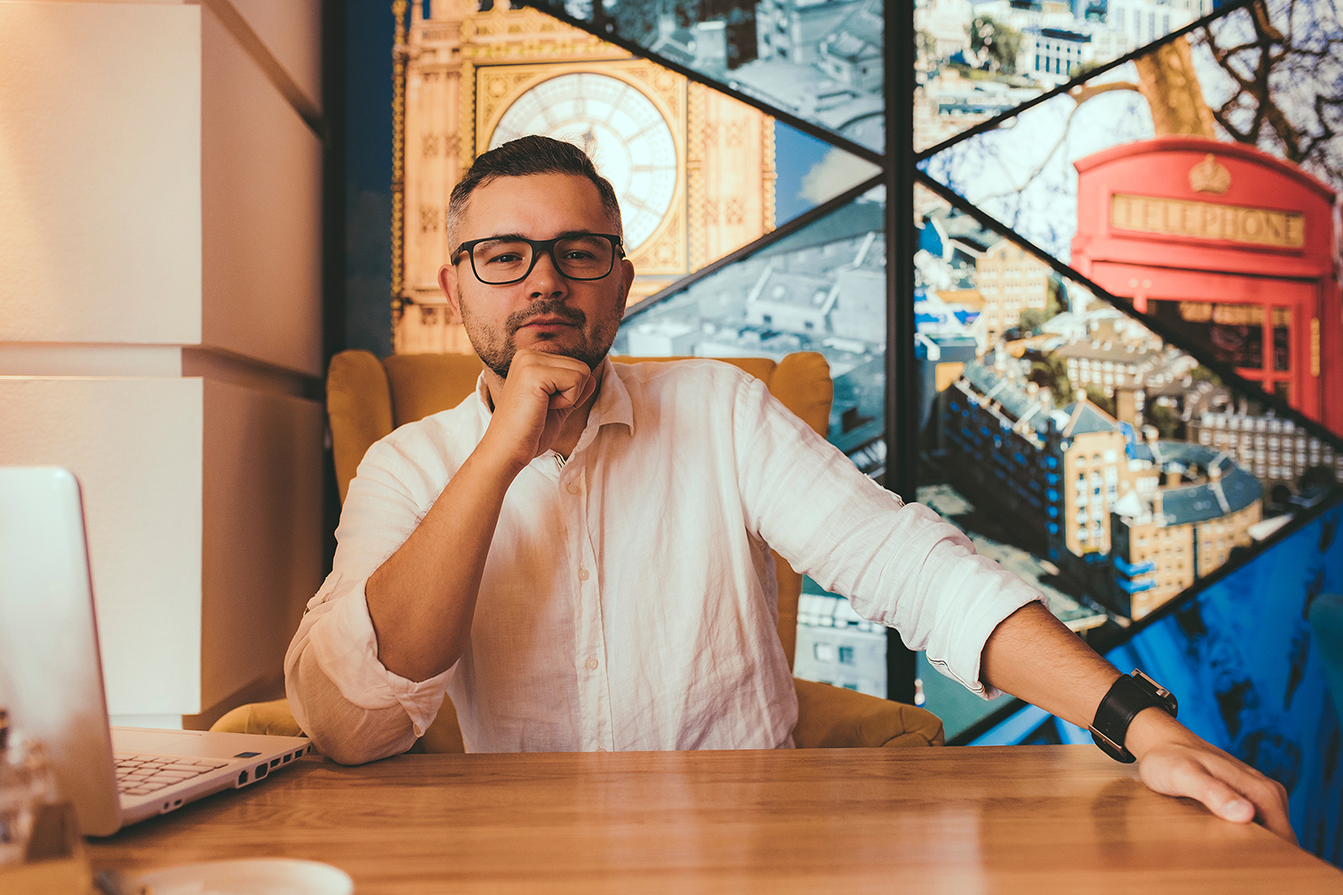
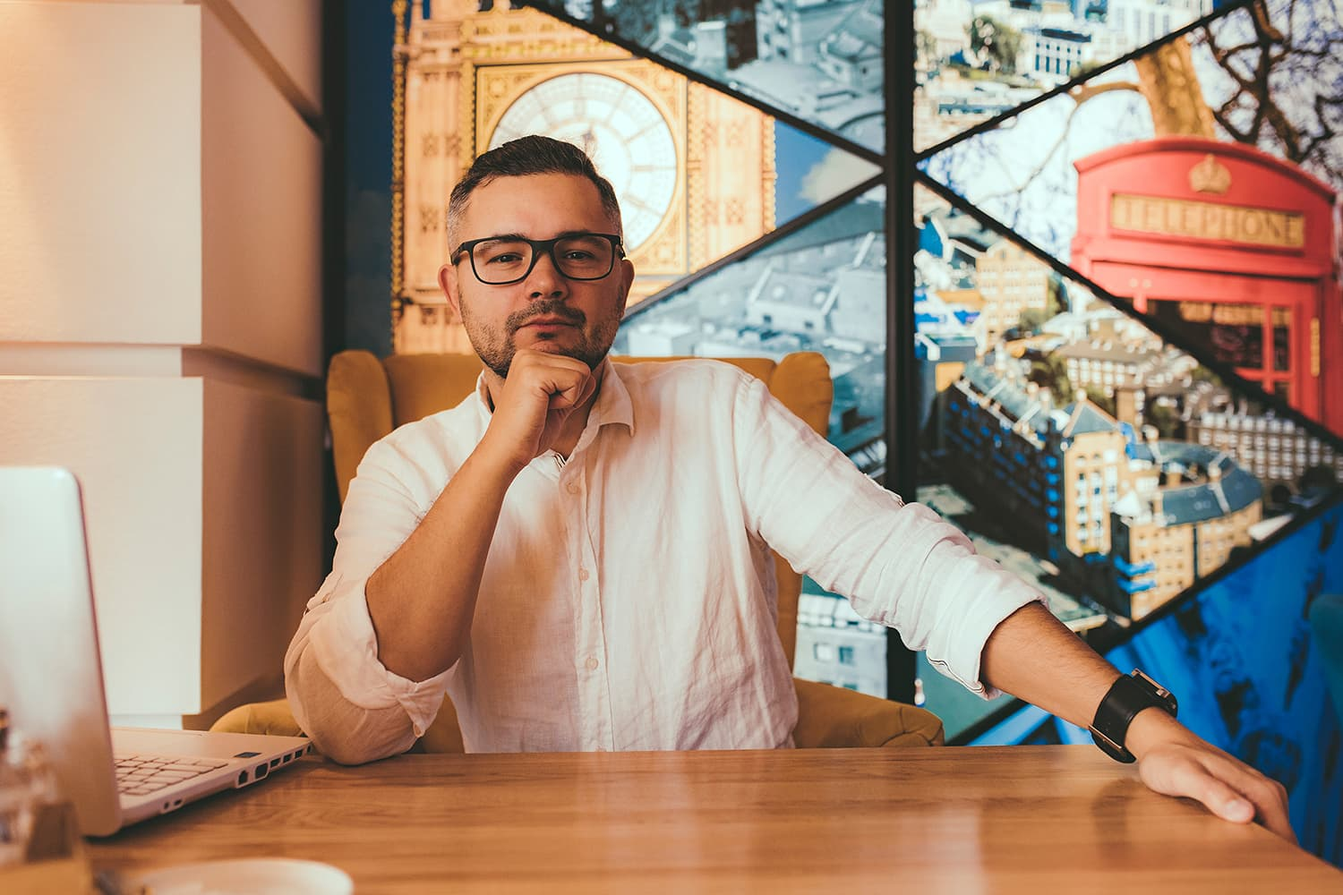
оптимищация графика + покраски

Changed region(s): [[0.828, 0.744, 0.8587, 0.775], [0.7973, 0.806, 0.828, 0.837]]

diff --git a/src/css/style.min.css b/src/css/style.min.css
@@ -1,1 +1,1 @@
-img{max-width:100%;height:auto}input{color-scheme:dark}::-webkit-scrollbar{width:12px;background-color:#2f2c28}::-webkit-scrollbar-thumb{border-radius:6px;background:-webkit-gradient(linear, left top, left bottom, from(transparent), to(#3a9fc9));background:linear-gradient(transparent, #3a9fc9)}::-webkit-scrollbar-thumb:hover{background:-webkit-gradient(linear, left top, left bottom, from(transparent), to(rgba(58, 159, 201, 0.6)));background:linear-gradient(transparent, rgba(58, 159, 201, 0.6))}@font-face{font-family:"Rubik";font-weight:300;font-style:normal;font-display:swap;src:url("../fonts/rubik-light.woff2") format("woff2"),url("../fonts/rubik-light.woff") format("woff")}@font-face{font-family:"Rubik";font-weight:500;font-style:normal;font-display:swap;src:url("../fonts/rubik-medium.woff2") format("woff2"),url("../fonts/rubik-medium.woff") format("woff")}@-webkit-keyframes loading{0%{-webkit-transform:translateX(0) translateY(0);transform:translateX(0) translateY(0);background-color:#3a9fc9;-webkit-box-shadow:0 0 10px #3a9fc9;box-shadow:0 0 10px #3a9fc9}25%{-webkit-transform:translateX(13px) rotate(90deg);transform:translateX(13px) rotate(90deg);background-color:#ff4040;-webkit-box-shadow:0 0 10px #ff4040;box-shadow:0 0 10px #ff4040}50%{-webkit-transform:translateX(13px) translateY(-13px) rotate(180deg);transform:translateX(13px) translateY(-13px) rotate(180deg);background-color:#2f2c28;-webkit-box-shadow:0 0 10px #2f2c28;box-shadow:0 0 10px #2f2c28}75%{-webkit-transform:translateX(0) translateY(-13px) rotate(270deg);transform:translateX(0) translateY(-13px) rotate(270deg);background-color:#ffce96;-webkit-box-shadow:0 0 10px #ffce96;box-shadow:0 0 10px #ffce96}100%{-webkit-transform:rotate(360deg);transform:rotate(360deg);background-color:#3a9fc9;-webkit-box-shadow:0 0 10px #3a9fc9;box-shadow:0 0 10px #3a9fc9}}@keyframes loading{0%{-webkit-transform:translateX(0) translateY(0);transform:translateX(0) translateY(0);background-color:#3a9fc9;-webkit-box-shadow:0 0 10px #3a9fc9;box-shadow:0 0 10px #3a9fc9}25%{-webkit-transform:translateX(13px) rotate(90deg);transform:translateX(13px) rotate(90deg);background-color:#ff4040;-webkit-box-shadow:0 0 10px #ff4040;box-shadow:0 0 10px #ff4040}50%{-webkit-transform:translateX(13px) translateY(-13px) rotate(180deg);transform:translateX(13px) translateY(-13px) rotate(180deg);background-color:#2f2c28;-webkit-box-shadow:0 0 10px #2f2c28;box-shadow:0 0 10px #2f2c28}75%{-webkit-transform:translateX(0) translateY(-13px) rotate(270deg);transform:translateX(0) translateY(-13px) rotate(270deg);background-color:#ffce96;-webkit-box-shadow:0 0 10px #ffce96;box-shadow:0 0 10px #ffce96}100%{-webkit-transform:rotate(360deg);transform:rotate(360deg);background-color:#3a9fc9;-webkit-box-shadow:0 0 10px #3a9fc9;box-shadow:0 0 10px #3a9fc9}}@-webkit-keyframes fly{0%{-webkit-transform:translateY(0);transform:translateY(0)}50%{-webkit-transform:translateY(10px);transform:translateY(10px)}100%{-webkit-transform:translateY(0);transform:translateY(0)}}@keyframes fly{0%{-webkit-transform:translateY(0);transform:translateY(0)}50%{-webkit-transform:translateY(10px);transform:translateY(10px)}100%{-webkit-transform:translateY(0);transform:translateY(0)}}@-webkit-keyframes fly-m{0%{-webkit-transform:translateY(0);transform:translateY(0)}50%{-webkit-transform:translateY(5px);transform:translateY(5px)}100%{-webkit-transform:translateY(0);transform:translateY(0)}}@keyframes fly-m{0%{-webkit-transform:translateY(0);transform:translateY(0)}50%{-webkit-transform:translateY(5px);transform:translateY(5px)}100%{-webkit-transform:translateY(0);transform:translateY(0)}}@-webkit-keyframes typing{0%{width:0}100%{width:100%}}@keyframes typing{0%{width:0}100%{width:100%}}@-webkit-keyframes blink{100%{border-right-color:rgba(0,0,0,0)}}@keyframes blink{100%{border-right-color:rgba(0,0,0,0)}}.main-header{font-size:30px;font-weight:bold}.page{font-family:"Rubik","Arial",sans-serif;height:100%;font-size:calc((1vw + 1vh)*.9);line-height:1.8}.page__body{background-color:#0c0500;color:#fff;min-width:320px;min-height:100%;height:3600px;margin:0 auto}.main-content{-webkit-transform-style:preserve-3d;transform-style:preserve-3d;height:100%}.container{width:100%;height:100%;position:fixed;-webkit-perspective:1500px;perspective:1500px}.gallery{-webkit-transform-style:preserve-3d;transform-style:preserve-3d;height:100%}.frame{width:100%;height:100%;position:absolute;display:-webkit-box;display:-ms-flexbox;display:flex;-webkit-box-pack:center;-ms-flex-pack:center;justify-content:center;-webkit-box-align:center;-ms-flex-align:center;align-items:center;-webkit-transition:.6s cubic-bezier(0.16, 1, 0.3, 1),opacity .7s ease;-o-transition:.6s cubic-bezier(0.16, 1, 0.3, 1),opacity .7s ease;transition:.6s cubic-bezier(0.16, 1, 0.3, 1),opacity .7s ease;will-change:transform;-webkit-transform-style:preserve-3d;transform-style:preserve-3d}.frame--bg::before{content:"";position:absolute;z-index:-1;width:170vw;height:170vh;background-color:rgba(12,5,0,.9)}.frame--bg-blur{-webkit-backdrop-filter:blur(4px);backdrop-filter:blur(4px)}.frame__title{font-weight:300;text-align:center;font-size:calc((1vw + 1vh)*2);line-height:1.1;letter-spacing:3px;margin-top:0;margin-bottom:0;border-right:2px solid rgba(255,255,255,.7);-webkit-animation:typing 4s steps(45) normal,blink .8s 10 forwards;animation:typing 4s steps(45) normal,blink .8s 10 forwards;white-space:nowrap;overflow:hidden}@media(max-width: 767px){.frame__title{letter-spacing:2px;font-size:calc((1vw + 1vh)*1.2)}}.frame__image{display:block;position:relative;background-color:#d38440;-o-object-fit:cover;object-fit:cover;width:calc((1vw + 1vh)*36);height:calc((1vw + 1vh)*26)}.frame__image--right{left:calc(18*(1vw + 1vh) + 30px)}@media(max-width: 767px){.frame__image--right{left:calc(15.652173913*(1vw + 1vh) + 30px)}}.frame__image--vertical{width:calc((1vw + 1vh)*26);height:calc((1vw + 1vh)*36);right:calc(13*(1vw + 1vh) + 30px)}@media(max-width: 767px){.frame__image--vertical{right:calc(11.3043478261*(1vw + 1vh) + 30px)}}.frame__content--text-right{position:relative;max-width:35%;left:19%}@media(max-width: 767px){.frame__content--text-right{max-width:40%;left:22%}}.frame__content--text-left{position:relative;max-width:35%;right:19%;text-align:right}@media(max-width: 767px){.frame__content--text-left{max-width:40%;right:22%}}.frame__subtitle{font-weight:500;text-transform:uppercase;font-size:calc((1vw + 1vh)*1.4);line-height:1.2;letter-spacing:1px;margin-top:0;margin-bottom:15px}@media(max-width: 767px){.frame__subtitle{margin-bottom:7px;font-size:1.2rem}}.frame__text{font-weight:300;line-height:1.3;margin-top:0;margin-bottom:0}.frame__list{padding-left:0;margin-top:0;margin-bottom:0;list-style:none}.frame__list-item{line-height:1.3;font-weight:300}.frame__title-type{position:relative}.visually-hidden{position:absolute;width:1px;height:1px;margin:-1px;border:0;padding:0;white-space:nowrap;-webkit-clip-path:inset(100%);clip-path:inset(100%);clip:rect(0 0 0 0);overflow:hidden}.form__container{opacity:0;position:absolute;background-color:#0c0500;background-image:url("../img/im-5.webp");background-repeat:no-repeat;background-position:center;background-size:cover;width:100%;height:0;top:45%;-webkit-transition:top 1s ease,height 1s ease,opacity 1.7s ease;-o-transition:top 1s ease,height 1s ease,opacity 1.7s ease;transition:top 1s ease,height 1s ease,opacity 1.7s ease;z-index:1}@media(-webkit-min-device-pixel-ratio: 2), (-o-min-device-pixel-ratio: 2/1), (min-resolution: 2dppx){.form__container{background-image:url("../img/im-5@2x.webp")}}.form__container--show{height:100%;opacity:1;top:0}.form__container--show .form__content{-webkit-transition:height 1s ease,opacity 1s ease;-o-transition:height 1s ease,opacity 1s ease;transition:height 1s ease,opacity 1s ease;height:100%;overflow:visible;opacity:1}.form__container::before{content:"";position:absolute;inset:0;z-index:-1;background-color:rgba(0,0,0,.7)}.form__content{position:absolute;left:50%;-webkit-transition:opacity 1s ease 0s,height 1s ease 0s;-o-transition:opacity 1s ease 0s,height 1s ease 0s;transition:opacity 1s ease 0s,height 1s ease 0s;opacity:0;height:0;overflow:hidden;padding-top:40px;max-width:600px}@media(min-width: 768px){.form__content{padding-right:10vw}}@media(max-width: 767px){.form__content{-webkit-transform:translateX(-50%);-ms-transform:translateX(-50%);transform:translateX(-50%);padding-right:10px;padding-left:10px;padding-top:20px}}.form__content .form__title{font-weight:500;font-size:calc((1vw + 1vh)*1.1);line-height:1.2;margin-top:0;margin-bottom:10px;letter-spacing:1px}.form__content .form__text{margin-top:0;margin-bottom:20px;line-height:1.2;font-weight:300}@media(max-width: 767px){.form__content .form__text{margin-bottom:15px}}.feedback{position:relative}.feedback::after{content:"";position:absolute;z-index:2;inset:0;background-color:rgba(12,5,0,.4);-webkit-box-shadow:0 0 10px #0c0500;box-shadow:0 0 10px #0c0500;display:none;-webkit-transition:opacity .5s ease,visibility .5s ease;-o-transition:opacity .5s ease,visibility .5s ease;transition:opacity .5s ease,visibility .5s ease}.feedback::before{content:"";z-index:3;position:absolute;left:45%;top:30%;width:10px;height:10px;background-color:#3a9fc9;border:2px solid #fff;-webkit-animation-name:loading;animation-name:loading;-webkit-animation-duration:2.5s;animation-duration:2.5s;-webkit-animation-iteration-count:infinite;animation-iteration-count:infinite;-webkit-animation-direction:normal;animation-direction:normal;-webkit-animation-timing-function:ease-in;animation-timing-function:ease-in;display:none}.feedback--sending::after,.feedback--sending::before{display:block}.feedback__list{padding:0;list-style:none;display:grid;gap:15px}@media(min-width: 768px){.feedback__list{display:grid;grid-template-columns:1fr 1fr}.feedback__list .feedback__item:nth-child(3),.feedback__list .feedback__item:nth-child(4){grid-column:span 2}}@media(max-height: 450px){.feedback__list{grid-template-columns:1fr 1fr;grid-template-rows:1fr 1fr 1fr;gap:10px}.feedback__list .feedback__item:nth-child(4){grid-row:1/-1;grid-column:2/-2}.feedback__list .feedback__item:nth-child(3){grid-column:span 1}}.feedback__btn{position:relative;background-color:rgba(0,0,0,0);border:2px solid #ffce96;padding:10px 20px;width:100%;max-width:180px;color:#ffce96;line-height:1.1;letter-spacing:.7px;text-transform:uppercase;display:block;margin-left:auto;cursor:pointer;outline:none;font-family:inherit;font-size:.7rem;font-weight:500;-webkit-transition:color .5s ease;-o-transition:color .5s ease;transition:color .5s ease}@media(max-width: 767px){.feedback__btn{padding:6px 10px}}.feedback__btn::before{content:"";position:absolute;background-color:#ffce96;z-index:-1;height:100%;width:0;left:50%;top:0;-webkit-transform:translate(-50%);-ms-transform:translate(-50%);transform:translate(-50%);-webkit-transition:width .6s ease;-o-transition:width .6s ease;transition:width .6s ease}.feedback__btn:hover::before{width:100%}.feedback__btn:hover{color:#0c0500}.feedback__btn:focus{text-decoration:underline}.field-item{position:relative}.field-item__input{width:100%;min-height:30px;font-family:inherit;font-size:1rem;font-weight:300;line-height:1.1;border:2px solid rgba(58,159,201,.3);-webkit-transition:all .5s ease 0s;-o-transition:all .5s ease 0s;transition:all .5s ease 0s;outline:none;background-color:rgba(0,0,0,0);-webkit-box-sizing:border-box;box-sizing:border-box;padding-left:5px;padding-top:7px;padding-bottom:3px;color:#3a9fc9}@media(max-width: 1200px){.field-item__input{min-height:15px;padding-left:3px}}.field-item__input--area{padding-top:9px;resize:none;min-height:120px}@media(max-width: 1200px){.field-item__input--area{min-height:60px}}@media(max-height: 450px){.field-item__input--area{height:100%}}.field-item__input:hover,.field-item__input:focus{border-color:#3a9fc9}.field-item__input:not(:-moz-placeholder-shown)~.field-item__name{font-size:calc((1vw + 1vh)*.4);transform:translate(12px, -9px);background-color:#3a9fc9;color:#0c0500;padding:3px 5px;font-weight:500}.field-item__input:not(:-ms-input-placeholder)~.field-item__name{font-size:calc((1vw + 1vh)*.4);-ms-transform:translate(12px, -9px);transform:translate(12px, -9px);background-color:#3a9fc9;color:#0c0500;padding:3px 5px;font-weight:500}.field-item__input:focus~.field-item__name,.field-item__input:not(:placeholder-shown)~.field-item__name{font-size:calc((1vw + 1vh)*.4);-webkit-transform:translate(12px, -9px);-ms-transform:translate(12px, -9px);transform:translate(12px, -9px);background-color:#3a9fc9;color:#0c0500;padding:3px 5px;font-weight:500}@media(max-width: 767px){.field-item__input:not(:-moz-placeholder-shown)~.field-item__name{transform:translate(8px, -5px)}.field-item__input:not(:-ms-input-placeholder)~.field-item__name{-ms-transform:translate(8px, -5px);transform:translate(8px, -5px)}.field-item__input:focus~.field-item__name,.field-item__input:not(:placeholder-shown)~.field-item__name{-webkit-transform:translate(8px, -5px);-ms-transform:translate(8px, -5px);transform:translate(8px, -5px)}}.field-item__input--error{border-color:#ff4040;-webkit-box-shadow:0 0 10px #ff4040;box-shadow:0 0 10px #ff4040}.field-item__name{font-size:calc((1vw + 1vh)*.7);text-transform:uppercase;color:rgba(58,159,201,.4);position:absolute;pointer-events:none;left:0;padding:8px;letter-spacing:.5px;font-weight:300;line-height:1;-webkit-transition:all .5s ease;-o-transition:all .5s ease;transition:all .5s ease}@media(max-width: 767px){.field-item__name{padding:5px}}.main-footer{position:fixed;bottom:0;width:100%;display:grid;grid-template-columns:1fr 1fr;justify-items:center;-webkit-box-sizing:border-box;box-sizing:border-box;padding:10px 30px 20px;-webkit-transition:opacity .6s ease,visibility .6s ease;-o-transition:opacity .6s ease,visibility .6s ease;transition:opacity .6s ease,visibility .6s ease}@media(max-width: 767px){.main-footer{padding:10px 20px 20px;row-gap:10px}}@media(min-width: 768px){.main-footer{grid-template-columns:repeat(4, 1fr)}}.main-footer--hidden{display:none}.main-footer__docs{text-align:center;position:relative}@media(min-width: 768px){.main-footer__docs{justify-self:start}}.main-footer__docs-title{margin-top:0;margin-bottom:8px;line-height:1;letter-spacing:.5px;font-size:.7rem}@media(max-width: 767px){.main-footer__docs-title{font-size:1.3rem}}.main-footer__copyright{-ms-flex-item-align:end;align-self:end}@media(max-width: 767px){.main-footer__copyright{grid-column:span 2;font-size:1rem}}@media(min-width: 768px){.main-footer__copyright{justify-self:end}}.main-footer__copyright-text{line-height:1;margin:0 0 0 0;font-weight:300;font-size:.7rem}.main-footer__copyright-text-symbol{color:#096cad}.works{text-align:center;display:-webkit-box;display:-ms-flexbox;display:flex;-webkit-box-orient:vertical;-webkit-box-direction:normal;-ms-flex-direction:column;flex-direction:column;font-size:.7rem}@media(max-width: 767px){.works{font-size:1.3rem}}.works__text{font-weight:500;line-height:1;margin-top:0;margin-bottom:8px;letter-spacing:.5px}.works__link{line-height:1;color:#3a9fc9;text-decoration:none;-webkit-transition:color .5s ease;-o-transition:color .5s ease;transition:color .5s ease;outline:none;font-weight:300;margin-bottom:3px}.works__link:hover,.works__link:focus{text-decoration:underline}.works__link:active{color:rgba(58,159,201,.5)}.docs{list-style:none;margin:0 0 0 0;padding:0 0 0 0}.docs__item{margin-bottom:10px}.docs__name{font-weight:300;line-height:1;display:block;color:#ffce96;cursor:pointer;outline:none;-webkit-transition:color .5s ease;-o-transition:color .5s ease;transition:color .5s ease;letter-spacing:.5px;font-size:.6rem}@media(max-width: 767px){.docs__name{font-size:1.3rem}}.docs__name:focus{text-decoration:underline}.docs__name:active{color:rgba(255,206,150,.5)}.docs__sertificate-one{-o-object-fit:contain;object-fit:contain}.docs__sertificate{position:absolute;opacity:0;visibility:hidden;height:auto;width:calc((1vw + 1vh)*15);display:block;left:0;top:0;-webkit-transform:translateY(-102%);-ms-transform:translateY(-102%);transform:translateY(-102%);-webkit-transition:opacity .5s ease,visibility .5s ease;-o-transition:opacity .5s ease,visibility .5s ease;transition:opacity .5s ease,visibility .5s ease}@media(max-width: 767px){.docs__sertificate{width:200px;left:-38vw}}.docs__name--one:hover~.docs__sertificate--one,.docs__name--two:hover~.docs__sertificate--two,.docs__name--one:focus~.docs__sertificate--one,.docs__name--two:focus~.docs__sertificate--two{opacity:1;visibility:visible}.socials{list-style:none;padding:0 0 0 0;margin:0 0 0 0;display:-webkit-box;display:-ms-flexbox;display:flex;-webkit-box-pack:center;-ms-flex-pack:center;justify-content:center;gap:10px}@media(max-width: 767px){.socials{grid-column:span 2}}@media(min-width: 768px){.socials{-ms-flex-item-align:end;align-self:end;justify-self:start}}.socials__link{display:-webkit-box;display:-ms-flexbox;display:flex;-webkit-box-pack:center;-ms-flex-pack:center;justify-content:center;-webkit-box-align:center;-ms-flex-align:center;align-items:center;text-decoration:none;background-color:rgba(255,255,255,.03);color:#3a9fc9;width:40px;height:40px;-webkit-box-shadow:2px 2px 2px 0 #000;box-shadow:2px 2px 2px 0 #000;text-align:center;border-radius:2px}.socials__link:focus{outline:none;-webkit-box-shadow:2px 2px 2px 0 #000,-1px -1px 0 0 rgba(255,255,255,.5);box-shadow:2px 2px 2px 0 #000,-1px -1px 0 0 rgba(255,255,255,.5)}.socials__link:active{color:#7d412f}.socials__link:hover use{-webkit-transform:scale(-1, 1);-ms-transform:scale(-1, 1);transform:scale(-1, 1)}.socials__img use{-webkit-transform-origin:center;-ms-transform-origin:center;transform-origin:center;-webkit-transition:all .4s ease;-o-transition:all .4s ease;transition:all .4s ease}.tools{position:absolute;padding:10px;left:50%;-webkit-transform:translate(-50%);-ms-transform:translate(-50%);transform:translate(-50%)}.tools__title{line-height:1.2;font-weight:300;font-size:calc((1vw + 1vh)*1.3);text-transform:uppercase;letter-spacing:.3px;text-align:center;margin-top:0;margin-bottom:40px}@media(min-width: 768px){.tools__title{margin-bottom:80px}}.tools__list{list-style:none;padding-left:0;margin:0 0 0 0;display:grid;-webkit-box-align:center;-ms-flex-align:center;align-items:center;justify-items:center;grid-template-areas:". ht . js . cs ." "gi . sa . no . gu" ". ph . fi . il .";row-gap:10px;-webkit-column-gap:3px;-moz-column-gap:3px;column-gap:3px}@media(min-width: 768px){.tools__list{gap:20px}}.tools__img{width:100%;-webkit-animation-name:fly;animation-name:fly;-webkit-animation-duration:4s;animation-duration:4s;-webkit-animation-iteration-count:infinite;animation-iteration-count:infinite;-webkit-animation-timing-function:cubic-bezier(0.68, -0.6, 0.32, 1.6);animation-timing-function:cubic-bezier(0.68, -0.6, 0.32, 1.6)}@media(max-width: 767px){.tools__img{height:40px;-webkit-animation-name:fly-m;animation-name:fly-m}}.tools__img--js{-webkit-animation-delay:1s;animation-delay:1s}.tools__img--cs{-webkit-animation-delay:2s;animation-delay:2s}.tools__img--git{-webkit-animation-delay:.7s;animation-delay:.7s}.tools__img--sass{-webkit-animation-delay:1.6s;animation-delay:1.6s}.tools__img--node{-webkit-animation-delay:.4s;animation-delay:.4s}.tools__img--gulp{-webkit-animation-delay:2.3s;animation-delay:2.3s}.tools__img--photo{-webkit-animation-delay:.9s;animation-delay:.9s}.tools__img--figma{-webkit-animation-delay:1.9s;animation-delay:1.9s}.tools__img--lustra{-webkit-animation-delay:1.3s;animation-delay:1.3s}.tools__item--ht{grid-area:ht}.tools__item--cs{grid-area:cs}.tools__item--js{grid-area:js}.tools__item--gi{grid-area:gi;width:140%}.tools__item--sa{grid-area:sa;width:120%}.tools__item--no{grid-area:no;width:150%}.tools__item--gu{grid-area:gu}.tools__item--ph{grid-area:ph}.tools__item--fi{grid-area:fi}.tools__item--il{grid-area:il}/*# sourceMappingURL=style.min.css.map */
+img{max-width:100%;height:auto}input{color-scheme:dark}::-webkit-scrollbar{width:12px;background-color:#2f2c28}::-webkit-scrollbar-thumb{border-radius:6px;background:-webkit-gradient(linear, left top, left bottom, from(transparent), to(#3a9fc9));background:linear-gradient(transparent, #3a9fc9)}::-webkit-scrollbar-thumb:hover{background:-webkit-gradient(linear, left top, left bottom, from(transparent), to(rgba(58, 159, 201, 0.6)));background:linear-gradient(transparent, rgba(58, 159, 201, 0.6))}@font-face{font-family:"Rubik";font-weight:300;font-style:normal;font-display:swap;src:url("../fonts/rubik-light.woff2") format("woff2"),url("../fonts/rubik-light.woff") format("woff")}@font-face{font-family:"Rubik";font-weight:500;font-style:normal;font-display:swap;src:url("../fonts/rubik-medium.woff2") format("woff2"),url("../fonts/rubik-medium.woff") format("woff")}@-webkit-keyframes loading{0%{-webkit-transform:translateX(0) translateY(0);transform:translateX(0) translateY(0);background-color:#3a9fc9;-webkit-box-shadow:0 0 10px #3a9fc9;box-shadow:0 0 10px #3a9fc9}25%{-webkit-transform:translateX(13px) rotate(90deg);transform:translateX(13px) rotate(90deg);background-color:#ff4040;-webkit-box-shadow:0 0 10px #ff4040;box-shadow:0 0 10px #ff4040}50%{-webkit-transform:translateX(13px) translateY(-13px) rotate(180deg);transform:translateX(13px) translateY(-13px) rotate(180deg);background-color:#2f2c28;-webkit-box-shadow:0 0 10px #2f2c28;box-shadow:0 0 10px #2f2c28}75%{-webkit-transform:translateX(0) translateY(-13px) rotate(270deg);transform:translateX(0) translateY(-13px) rotate(270deg);background-color:#ffce96;-webkit-box-shadow:0 0 10px #ffce96;box-shadow:0 0 10px #ffce96}100%{-webkit-transform:rotate(360deg);transform:rotate(360deg);background-color:#3a9fc9;-webkit-box-shadow:0 0 10px #3a9fc9;box-shadow:0 0 10px #3a9fc9}}@keyframes loading{0%{-webkit-transform:translateX(0) translateY(0);transform:translateX(0) translateY(0);background-color:#3a9fc9;-webkit-box-shadow:0 0 10px #3a9fc9;box-shadow:0 0 10px #3a9fc9}25%{-webkit-transform:translateX(13px) rotate(90deg);transform:translateX(13px) rotate(90deg);background-color:#ff4040;-webkit-box-shadow:0 0 10px #ff4040;box-shadow:0 0 10px #ff4040}50%{-webkit-transform:translateX(13px) translateY(-13px) rotate(180deg);transform:translateX(13px) translateY(-13px) rotate(180deg);background-color:#2f2c28;-webkit-box-shadow:0 0 10px #2f2c28;box-shadow:0 0 10px #2f2c28}75%{-webkit-transform:translateX(0) translateY(-13px) rotate(270deg);transform:translateX(0) translateY(-13px) rotate(270deg);background-color:#ffce96;-webkit-box-shadow:0 0 10px #ffce96;box-shadow:0 0 10px #ffce96}100%{-webkit-transform:rotate(360deg);transform:rotate(360deg);background-color:#3a9fc9;-webkit-box-shadow:0 0 10px #3a9fc9;box-shadow:0 0 10px #3a9fc9}}@-webkit-keyframes fly{0%{-webkit-transform:translateY(0);transform:translateY(0)}50%{-webkit-transform:translateY(10px);transform:translateY(10px)}100%{-webkit-transform:translateY(0);transform:translateY(0)}}@keyframes fly{0%{-webkit-transform:translateY(0);transform:translateY(0)}50%{-webkit-transform:translateY(10px);transform:translateY(10px)}100%{-webkit-transform:translateY(0);transform:translateY(0)}}@-webkit-keyframes fly-m{0%{-webkit-transform:translateY(0);transform:translateY(0)}50%{-webkit-transform:translateY(5px);transform:translateY(5px)}100%{-webkit-transform:translateY(0);transform:translateY(0)}}@keyframes fly-m{0%{-webkit-transform:translateY(0);transform:translateY(0)}50%{-webkit-transform:translateY(5px);transform:translateY(5px)}100%{-webkit-transform:translateY(0);transform:translateY(0)}}@-webkit-keyframes typing{0%{width:0}100%{width:100%}}@keyframes typing{0%{width:0}100%{width:100%}}@-webkit-keyframes blink{100%{border-right-color:rgba(0,0,0,0)}}@keyframes blink{100%{border-right-color:rgba(0,0,0,0)}}.main-header{font-size:30px;font-weight:bold}.page{font-family:"Rubik","Arial",sans-serif;height:100%;font-size:calc((1vw + 1vh)*.9);line-height:1.8}.page__body{background-color:#0c0500;color:#fff;min-width:320px;min-height:100%;height:3600px;margin:0 auto}.main-content{-webkit-transform-style:preserve-3d;transform-style:preserve-3d;height:100%}.container{width:100%;height:100%;position:fixed;-webkit-perspective:1500px;perspective:1500px}.gallery{-webkit-transform-style:preserve-3d;transform-style:preserve-3d;height:100%}.frame{width:100%;height:100%;position:absolute;display:-webkit-box;display:-ms-flexbox;display:flex;-webkit-box-pack:center;-ms-flex-pack:center;justify-content:center;-webkit-box-align:center;-ms-flex-align:center;align-items:center;-webkit-transition:.6s cubic-bezier(0.16, 1, 0.3, 1),opacity .7s ease;-o-transition:.6s cubic-bezier(0.16, 1, 0.3, 1),opacity .7s ease;transition:.6s cubic-bezier(0.16, 1, 0.3, 1),opacity .7s ease;will-change:transform;-webkit-transform-style:preserve-3d;transform-style:preserve-3d}.frame--bg::before{content:"";position:absolute;z-index:-1;width:170vw;height:170vh;background-color:rgba(12,5,0,.9)}.frame--bg-blur{-webkit-backdrop-filter:blur(4px);backdrop-filter:blur(4px)}.frame__title{font-weight:300;text-align:center;font-size:calc((1vw + 1vh)*2);line-height:1.1;letter-spacing:3px;margin-top:0;margin-bottom:0;border-right:2px solid rgba(255,255,255,.7);-webkit-animation:typing 4s steps(45) normal,blink .8s 10 forwards;animation:typing 4s steps(45) normal,blink .8s 10 forwards;white-space:nowrap;overflow:hidden}@media(max-width: 767px){.frame__title{letter-spacing:2px;font-size:calc((1vw + 1vh)*1.2)}}.frame__image{display:block;position:relative;background-color:#d38440;-o-object-fit:cover;object-fit:cover;width:calc((1vw + 1vh)*36);height:calc((1vw + 1vh)*26)}.frame__image--right{left:calc(18*(1vw + 1vh) + 30px)}@media(max-width: 767px){.frame__image--right{left:calc(15.652173913*(1vw + 1vh) + 30px)}}.frame__image--vertical{width:calc((1vw + 1vh)*26);height:calc((1vw + 1vh)*36);right:calc(13*(1vw + 1vh) + 30px)}@media(max-width: 767px){.frame__image--vertical{right:calc(11.3043478261*(1vw + 1vh) + 30px)}}.frame__content--text-right{position:relative;max-width:35%;left:19%}@media(max-width: 767px){.frame__content--text-right{max-width:40%;left:22%}}.frame__content--text-left{position:relative;max-width:35%;right:19%;text-align:right}@media(max-width: 767px){.frame__content--text-left{max-width:40%;right:22%}}.frame__subtitle{font-weight:500;text-transform:uppercase;font-size:calc((1vw + 1vh)*1.4);line-height:1.2;letter-spacing:1px;margin-top:0;margin-bottom:30px}@media(max-width: 767px){.frame__subtitle{margin-bottom:10px;font-size:1.2rem}}.frame__text{font-weight:300;line-height:1.3;margin-top:0;margin-bottom:0}.frame__list{padding-left:0;margin-top:0;margin-bottom:0;list-style:none}.frame__list-item{line-height:1.3;font-weight:300;margin-bottom:5px}.frame__title-type{position:relative}.frame__colored-text{color:#3a9fc9}.visually-hidden{position:absolute;width:1px;height:1px;margin:-1px;border:0;padding:0;white-space:nowrap;-webkit-clip-path:inset(100%);clip-path:inset(100%);clip:rect(0 0 0 0);overflow:hidden}.form__container{opacity:0;position:absolute;background-color:#0c0500;background-image:url("../img/im-5.jpg");background-repeat:no-repeat;background-position:center;background-size:cover;width:100%;height:0;top:45%;-webkit-transition:top 1s ease,height 1s ease,opacity 1.7s ease;-o-transition:top 1s ease,height 1s ease,opacity 1.7s ease;transition:top 1s ease,height 1s ease,opacity 1.7s ease;z-index:1}@media(-webkit-min-device-pixel-ratio: 2), (-o-min-device-pixel-ratio: 2/1), (min-resolution: 2dppx){.form__container{background-image:url("../img/im-5@2x.jpg")}}.form__container--show{height:100%;opacity:1;top:0}.form__container--show .form__content{-webkit-transition:height 1s ease,opacity 1s ease;-o-transition:height 1s ease,opacity 1s ease;transition:height 1s ease,opacity 1s ease;overflow:visible;opacity:1}.form__container::before{content:"";position:absolute;inset:0;z-index:-1;background-color:rgba(0,0,0,.7)}.form__content{position:absolute;left:50%;-webkit-transition:opacity 1s ease 0s,height 1s ease 0s;-o-transition:opacity 1s ease 0s,height 1s ease 0s;transition:opacity 1s ease 0s,height 1s ease 0s;opacity:0;height:0;overflow:hidden;padding-top:30px;max-width:600px}@media(min-width: 768px){.form__content{padding-right:10vw}}@media(max-width: 767px){.form__content{-webkit-transform:translateX(-50%);-ms-transform:translateX(-50%);transform:translateX(-50%);padding-right:10px;padding-left:10px;padding-top:20px}}.form__content .form__title{font-weight:500;font-size:calc((1vw + 1vh)*1.1);line-height:1.2;margin-top:0;margin-bottom:10px;letter-spacing:1px}.form__content .form__text{margin-top:0;margin-bottom:20px;line-height:1.2;font-weight:300;font-size:1rem}@media(max-width: 767px){.form__content .form__text{margin-bottom:15px}}.feedback{position:relative}.feedback::after{content:"";position:absolute;z-index:2;inset:0;background-color:rgba(12,5,0,.4);-webkit-box-shadow:0 0 10px #0c0500;box-shadow:0 0 10px #0c0500;display:none;-webkit-transition:opacity .5s ease,visibility .5s ease;-o-transition:opacity .5s ease,visibility .5s ease;transition:opacity .5s ease,visibility .5s ease}.feedback::before{content:"";z-index:3;position:absolute;left:45%;top:30%;width:10px;height:10px;background-color:#3a9fc9;border:2px solid #fff;-webkit-animation-name:loading;animation-name:loading;-webkit-animation-duration:2.5s;animation-duration:2.5s;-webkit-animation-iteration-count:infinite;animation-iteration-count:infinite;-webkit-animation-direction:normal;animation-direction:normal;-webkit-animation-timing-function:ease-in;animation-timing-function:ease-in;display:none}.feedback--sending::after,.feedback--sending::before{display:block}.feedback__list{padding:0;list-style:none;display:grid;gap:15px}@media(min-width: 768px){.feedback__list{display:grid;grid-template-columns:1fr 1fr}.feedback__list .feedback__item:nth-child(3),.feedback__list .feedback__item:nth-child(4){grid-column:span 2}}@media(max-height: 450px){.feedback__list{grid-template-columns:1fr 1fr;grid-template-rows:1fr 1fr 1fr;gap:10px}.feedback__list .feedback__item:nth-child(4){grid-row:1/-1;grid-column:2/-2}.feedback__list .feedback__item:nth-child(3){grid-column:span 1}}.feedback__btn{position:relative;background-color:rgba(0,0,0,0);border:2px solid #ffce96;padding:10px 20px;width:100%;max-width:180px;color:#ffce96;line-height:1.1;letter-spacing:.7px;text-transform:uppercase;display:block;margin-left:auto;cursor:pointer;outline:none;font-family:inherit;font-size:.7rem;font-weight:500;-webkit-transition:color .5s ease;-o-transition:color .5s ease;transition:color .5s ease}@media(max-width: 767px){.feedback__btn{padding:6px 10px}}.feedback__btn::before{content:"";position:absolute;background-color:#ffce96;z-index:-1;height:100%;width:0;left:50%;top:0;-webkit-transform:translate(-50%);-ms-transform:translate(-50%);transform:translate(-50%);-webkit-transition:width .6s ease;-o-transition:width .6s ease;transition:width .6s ease}.feedback__btn:hover::before{width:100%}.feedback__btn:hover{color:#0c0500}.feedback__btn:focus{text-decoration:underline}.field-item{position:relative}.field-item__input{width:100%;min-height:30px;font-family:inherit;font-size:1rem;font-weight:300;line-height:1.1;border:2px solid rgba(58,159,201,.3);-webkit-transition:all .5s ease 0s;-o-transition:all .5s ease 0s;transition:all .5s ease 0s;outline:none;background-color:rgba(0,0,0,0);-webkit-box-sizing:border-box;box-sizing:border-box;padding-left:5px;padding-top:7px;padding-bottom:3px;color:#3a9fc9}@media(max-width: 1200px){.field-item__input{min-height:15px;padding-left:3px}}.field-item__input--area{padding-top:9px;resize:none;min-height:120px}@media(max-width: 1200px){.field-item__input--area{min-height:60px}}@media(max-height: 450px){.field-item__input--area{height:100%}}.field-item__input:hover,.field-item__input:focus{border-color:#3a9fc9}.field-item__input:not(:-moz-placeholder-shown)~.field-item__name{font-size:calc((1vw + 1vh)*.4);transform:translate(12px, -9px);background-color:#3a9fc9;color:#0c0500;padding:3px 5px;font-weight:500}.field-item__input:not(:-ms-input-placeholder)~.field-item__name{font-size:calc((1vw + 1vh)*.4);-ms-transform:translate(12px, -9px);transform:translate(12px, -9px);background-color:#3a9fc9;color:#0c0500;padding:3px 5px;font-weight:500}.field-item__input:focus~.field-item__name,.field-item__input:not(:placeholder-shown)~.field-item__name{font-size:calc((1vw + 1vh)*.4);-webkit-transform:translate(12px, -9px);-ms-transform:translate(12px, -9px);transform:translate(12px, -9px);background-color:#3a9fc9;color:#0c0500;padding:3px 5px;font-weight:500}@media(max-width: 767px){.field-item__input:not(:-moz-placeholder-shown)~.field-item__name{transform:translate(8px, -5px)}.field-item__input:not(:-ms-input-placeholder)~.field-item__name{-ms-transform:translate(8px, -5px);transform:translate(8px, -5px)}.field-item__input:focus~.field-item__name,.field-item__input:not(:placeholder-shown)~.field-item__name{-webkit-transform:translate(8px, -5px);-ms-transform:translate(8px, -5px);transform:translate(8px, -5px)}}.field-item__input--error{border-color:#ff4040;-webkit-box-shadow:0 0 10px #ff4040;box-shadow:0 0 10px #ff4040}.field-item__name{font-size:calc((1vw + 1vh)*.7);text-transform:uppercase;color:rgba(58,159,201,.4);position:absolute;pointer-events:none;left:0;padding:8px;letter-spacing:.5px;font-weight:300;line-height:1;-webkit-transition:all .5s ease;-o-transition:all .5s ease;transition:all .5s ease}@media(max-width: 767px){.field-item__name{padding:5px}}.main-footer{position:fixed;bottom:0;width:100%;display:grid;grid-template-columns:1fr 1fr;justify-items:center;-webkit-box-sizing:border-box;box-sizing:border-box;padding:10px 30px 20px;-webkit-transition:opacity .6s ease,visibility .6s ease;-o-transition:opacity .6s ease,visibility .6s ease;transition:opacity .6s ease,visibility .6s ease}@media(max-width: 767px){.main-footer{padding:10px;row-gap:10px}}@media(min-width: 768px){.main-footer{grid-template-columns:repeat(4, 1fr)}}.main-footer--hidden{display:none}.main-footer__docs{text-align:center;position:relative}@media(min-width: 768px){.main-footer__docs{justify-self:start}}.main-footer__docs-title{margin-top:0;margin-bottom:8px;line-height:1;letter-spacing:.5px;font-size:.7rem}@media(max-width: 767px){.main-footer__docs-title{font-size:1.3rem}}.main-footer__copyright{-ms-flex-item-align:end;align-self:end}@media(max-width: 767px){.main-footer__copyright{grid-column:span 2;font-size:1rem}}@media(min-width: 768px){.main-footer__copyright{justify-self:end}}.main-footer__copyright-text{line-height:1;margin:0 0 0 0;font-weight:300;font-size:.7rem}.main-footer__copyright-text-symbol{color:#096cad}.works{text-align:center;display:-webkit-box;display:-ms-flexbox;display:flex;-webkit-box-orient:vertical;-webkit-box-direction:normal;-ms-flex-direction:column;flex-direction:column;font-size:.7rem}@media(max-width: 767px){.works{font-size:1.3rem}}.works__text{font-weight:500;line-height:1;margin-top:0;margin-bottom:8px;letter-spacing:.5px}.works__link{line-height:1;color:#3a9fc9;text-decoration:none;-webkit-transition:color .5s ease;-o-transition:color .5s ease;transition:color .5s ease;outline:none;font-weight:300;margin-bottom:3px}.works__link:hover,.works__link:focus{text-decoration:underline}.works__link:active{color:rgba(58,159,201,.5)}.docs{list-style:none;margin:0 0 0 0;padding:0 0 0 0}.docs__item{margin-bottom:10px}.docs__name{font-weight:300;line-height:1;display:block;color:#ffce96;cursor:pointer;outline:none;-webkit-transition:color .5s ease;-o-transition:color .5s ease;transition:color .5s ease;letter-spacing:.5px;font-size:.6rem}@media(max-width: 767px){.docs__name{font-size:1.3rem}}.docs__name:focus{text-decoration:underline}.docs__name:active{color:rgba(255,206,150,.5)}.docs__sertificate-one{-o-object-fit:contain;object-fit:contain}.docs__sertificate{position:absolute;opacity:0;visibility:hidden;height:auto;width:calc((1vw + 1vh)*15);display:block;left:0;top:0;-webkit-transform:translateY(-102%);-ms-transform:translateY(-102%);transform:translateY(-102%);-webkit-transition:opacity .5s ease,visibility .5s ease;-o-transition:opacity .5s ease,visibility .5s ease;transition:opacity .5s ease,visibility .5s ease}@media(max-width: 767px){.docs__sertificate{width:200px;left:-38vw}}.docs__name--one:hover~.docs__sertificate--one,.docs__name--two:hover~.docs__sertificate--two,.docs__name--one:focus~.docs__sertificate--one,.docs__name--two:focus~.docs__sertificate--two{opacity:1;visibility:visible}.socials{list-style:none;padding:0 0 0 0;margin:0 0 0 0;display:-webkit-box;display:-ms-flexbox;display:flex;-webkit-box-pack:center;-ms-flex-pack:center;justify-content:center;gap:10px}@media(max-width: 767px){.socials{grid-column:span 2}}@media(min-width: 768px){.socials{-ms-flex-item-align:end;align-self:end;justify-self:start}}.socials__link{display:-webkit-box;display:-ms-flexbox;display:flex;-webkit-box-pack:center;-ms-flex-pack:center;justify-content:center;-webkit-box-align:center;-ms-flex-align:center;align-items:center;text-decoration:none;background-color:rgba(255,255,255,.03);color:#3a9fc9;width:40px;height:40px;-webkit-box-shadow:2px 2px 2px 0 #000;box-shadow:2px 2px 2px 0 #000;text-align:center;border-radius:2px}.socials__link:focus{outline:none;-webkit-box-shadow:2px 2px 2px 0 #000,-1px -1px 0 0 rgba(255,255,255,.5);box-shadow:2px 2px 2px 0 #000,-1px -1px 0 0 rgba(255,255,255,.5)}.socials__link:active{color:#7d412f}.socials__link:hover use{-webkit-transform:scale(-1, 1);-ms-transform:scale(-1, 1);transform:scale(-1, 1)}.socials__img use{-webkit-transform-origin:center;-ms-transform-origin:center;transform-origin:center;-webkit-transition:all .4s ease;-o-transition:all .4s ease;transition:all .4s ease}.tools{position:absolute;padding:10px;left:50%;-webkit-transform:translate(-50%);-ms-transform:translate(-50%);transform:translate(-50%)}.tools__title{line-height:1.2;font-weight:300;font-size:calc((1vw + 1vh)*1.3);text-transform:uppercase;letter-spacing:.3px;text-align:center;margin-top:0;margin-bottom:40px}@media(min-width: 768px){.tools__title{margin-bottom:80px}}.tools__list{list-style:none;padding-left:0;margin:0 0 0 0;display:grid;-webkit-box-align:center;-ms-flex-align:center;align-items:center;justify-items:center;grid-template-areas:". ht . js . cs ." "gi . sa . no . gu" ". ph . fi . il .";row-gap:10px;-webkit-column-gap:3px;-moz-column-gap:3px;column-gap:3px}@media(min-width: 768px){.tools__list{gap:20px}}.tools__img{width:100%;-webkit-animation-name:fly;animation-name:fly;-webkit-animation-duration:4s;animation-duration:4s;-webkit-animation-iteration-count:infinite;animation-iteration-count:infinite;-webkit-animation-timing-function:cubic-bezier(0.68, -0.6, 0.32, 1.6);animation-timing-function:cubic-bezier(0.68, -0.6, 0.32, 1.6)}@media(max-width: 767px){.tools__img{height:40px;-webkit-animation-name:fly-m;animation-name:fly-m}}.tools__img--js{-webkit-animation-delay:1s;animation-delay:1s}.tools__img--cs{-webkit-animation-delay:2s;animation-delay:2s}.tools__img--git{-webkit-animation-delay:.7s;animation-delay:.7s}.tools__img--sass{-webkit-animation-delay:1.6s;animation-delay:1.6s}.tools__img--node{-webkit-animation-delay:.4s;animation-delay:.4s}.tools__img--gulp{-webkit-animation-delay:2.3s;animation-delay:2.3s}.tools__img--photo{-webkit-animation-delay:.9s;animation-delay:.9s}.tools__img--figma{-webkit-animation-delay:1.9s;animation-delay:1.9s}.tools__img--lustra{-webkit-animation-delay:1.3s;animation-delay:1.3s}.tools__item--ht{grid-area:ht}.tools__item--cs{grid-area:cs}.tools__item--js{grid-area:js}.tools__item--gi{grid-area:gi;width:140%}.tools__item--sa{grid-area:sa;width:120%}.tools__item--no{grid-area:no;width:150%}.tools__item--gu{grid-area:gu}.tools__item--ph{grid-area:ph}.tools__item--fi{grid-area:fi}.tools__item--il{grid-area:il}/*# sourceMappingURL=style.min.css.map */

diff --git a/src/index.html b/src/index.html
@@ -35,8 +35,11 @@
 
         <div class="frame frame--bg">
           <div class="frame__content">
-            <img class="frame__image frame__image--vertical" src="img/im-2.webp" srcset="img/im-2@2x.webp 2x"
-              alt="фото человека за столом с ноутбуком" width="300" height="150">
+            <picture>
+              <source type="image/webp" srcset="img/im-2.webp 1x, img/im-2@2x.webp 2x">
+              <img class="frame__image frame__image--vertical" src="img/im-2.jpg" srcset="img/im-2@2x.jpg 2x"
+                alt="фото человека за столом с ноутбуком" width="300" height="150">
+            </picture>
           </div>
         </div>
 
@@ -44,18 +47,22 @@
 
         <div class="frame frame--bg">
           <div class="frame__content">
-            <img class="frame__image frame__image--right" src="img/im-1.webp" srcset="img/im-1@2x.webp 2x"
-              alt="фото человека за столом с телефоном" width="300" height="150">
+            <picture>
+              <source type="image/webp" srcset="img/im-1.webp 1x, img/im-1@2x.webp 2x">
+              <img class="frame__image frame__image--right" src="img/im-1.jpg" srcset="img/im-1@2x.jpg 2x"
+                alt="фото человека за столом с телефоном" width="300" height="150">
+            </picture>
           </div>
         </div>
 
         <div class="frame frame--bg">
           <div class="frame__content frame__content--text-left">
             <h3 class="frame__subtitle">
-              Про меня
+              <span class="frame__colored-text">Про меня</span>
             </h3>
             <p class="frame__text">
-              Я активно развивающийся фронтенд разработчик. Преследую чистый в написании своих сайтов код. Создаю
+              Я активно развивающийся фронтенд разработчик. Преследую чистый в
+              написании своих сайтов код. Создаю
               доступные, приятные и отзывчивые в пользовании сайты чтобы их могли с удовольствием эксплуатировать на
               любых устройствах.
             </p>
@@ -69,25 +76,30 @@
             </h3>
             <ul class="frame__list">
               <li class="frame__list-item">
-                &#8226; Семантическая разметка - для улучшенной доступности и повышенного ранжирования в поисковых
+                <span class="frame__colored-text">Семантическая</span> разметка - для улучшенной доступности и
+                повышенного ранжирования в поисковых
                 системах.
               </li>
               <li class="frame__list-item">
-                &#8226; Адаптивность и кроссбраузерность - для пользования любыми устройствами без ущерба удобству и
+                <span class="frame__colored-text">Адаптивность</span> и кроссбраузерность - для пользования
+                любыми устройствами без ущерба удобству и
                 функционалу.
               </li>
               <li class="frame__list-item">
-                &#8226; Верстка по методологии «бэм» с использованием препроцессоров и автоматизации сборки - для
-                комфортной
-                работы с кодом.
-              </li>
-              <li class="frame__list-item">
-                &#8226; Достижение пиксель перфекта с дизайном - чтобы было точно как по макету.
-              </li>
-              <li class="frame__list-item">
-                &#8226; Оптимизация кода, графики и других материалов - для ускоренной работы сайта и экономии
+                <span class="frame__colored-text">Оптимизация</span> кода, графики и других материалов - для
+                ускоренной работы сайта и экономии
                 ресурса
                 пользователя.
+              </li>
+              <li class="frame__list-item">
+                <span class="frame__colored-text">Достижение</span> пиксель перфекта с дизайном - чтобы было
+                точно как по макету.
+              </li>
+              <li class="frame__list-item">
+                <span class="frame__colored-text">Верстка</span> по методологии «бэм» с использованием
+                препроцессоров и автоматизации сборки - для
+                комфортной
+                работы с кодом.
               </li>
             </ul>
           </div>
@@ -97,8 +109,11 @@
 
         <div class="frame frame--bg">
           <div class="frame__content">
-            <img class="frame__image frame__image--vertical" src="img/im-3.webp" srcset="img/im-3@2x.webp 2x"
-              alt="фото человека стоящего в руках с ноутбуком" width="300" height="150">
+            <picture>
+              <source type="image/webp" srcset="img/im-3.webp 1x, img/im-3@2x.webp 2x">
+              <img class="frame__image frame__image--vertical" src="img/im-3.jpg" srcset="img/im-3@2x.jpg 2x"
+                alt="фото человека стоящего в руках с ноутбуком" width="300" height="150">
+            </picture>
           </div>
         </div>
 
@@ -106,8 +121,11 @@
 
         <div class="frame frame--bg">
           <div class="frame__content">
-            <img class="frame__image frame__image--right" src="img/im-4.webp" srcset="img/im-4@2x.webp 2x"
-              alt="фото человека в очках за столом" width="300" height="150">
+            <picture>
+              <source type="image/webp" srcset="img/im-4.webp 1x, img/im-4@2x.webp 2x">
+              <img class="frame__image frame__image--right" src="img/im-4.jpg" srcset="img/im-4@2x.jpg 2x"
+                alt="фото человека в очках за столом" width="300" height="150">
+            </picture>
           </div>
         </div>
 

diff --git a/src/sass/blocks/_form.scss b/src/sass/blocks/_form.scss
@@ -2,7 +2,7 @@
   opacity: 0;
   position: absolute;
   background-color: $basic-dark;
-  background-image: url("../img/im-5.webp");
+  background-image: url("../img/im-5.jpg");
   background-repeat: no-repeat;
   background-position: center;
   background-size: cover;
@@ -13,7 +13,7 @@
   z-index: 1;
 
   @media (min-resolution: 2dppx) {
-    background-image: url("../img/im-5@2x.webp");
+    background-image: url("../img/im-5@2x.jpg");
   }
 
   &--show {
@@ -23,7 +23,6 @@
 
     .form__content {
       transition: height 1s ease, opacity 1s ease;
-      height: 100%;
       overflow: visible;
       opacity: 1;
     }
@@ -45,7 +44,7 @@
   opacity: 0;
   height: 0;
   overflow: hidden;
-  padding-top: 40px;
+  padding-top: 30px;
   max-width: 600px;
 
   @media (min-width: $tablet-width) {
@@ -73,6 +72,7 @@
     margin-bottom: 20px;
     line-height: 1.2;
     font-weight: 300;
+    font-size: 1rem;
 
     @media (max-width: $mobile-width-only) {
       margin-bottom: 15px;

diff --git a/src/sass/blocks/_frame.scss b/src/sass/blocks/_frame.scss
@@ -103,10 +103,10 @@
   line-height: 1.2;
   letter-spacing: 1px;
   margin-top: 0;
-  margin-bottom: 15px;
+  margin-bottom: 30px;
 
   @media (max-width: $mobile-width-only) {
-    margin-bottom: 7px;
+    margin-bottom: 10px;
     font-size: 1.2rem;
   }
 }
@@ -128,8 +128,13 @@
 .frame__list-item {
   line-height: 1.3;
   font-weight: 300;
+  margin-bottom: 5px;
 }
 
 .frame__title-type {
   position: relative;
+}
+
+.frame__colored-text {
+  color: $bg-blue;
 }

diff --git a/src/sass/blocks/_main-footer.scss b/src/sass/blocks/_main-footer.scss
@@ -10,7 +10,7 @@
   transition: opacity 0.6s ease, visibility 0.6s ease;
 
   @media (max-width: $mobile-width-only) {
-    padding: 10px 20px 20px;
+    padding: 10px;
     row-gap: 10px;
   }
 
